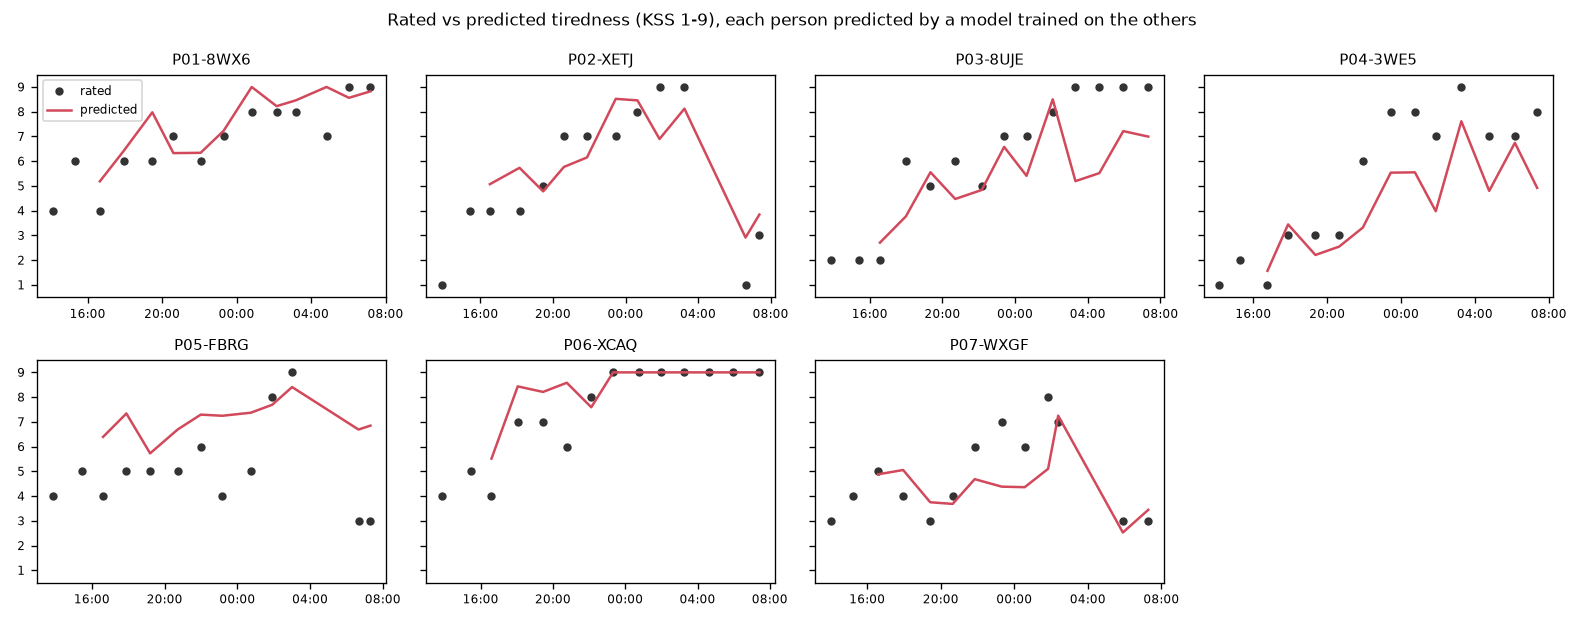
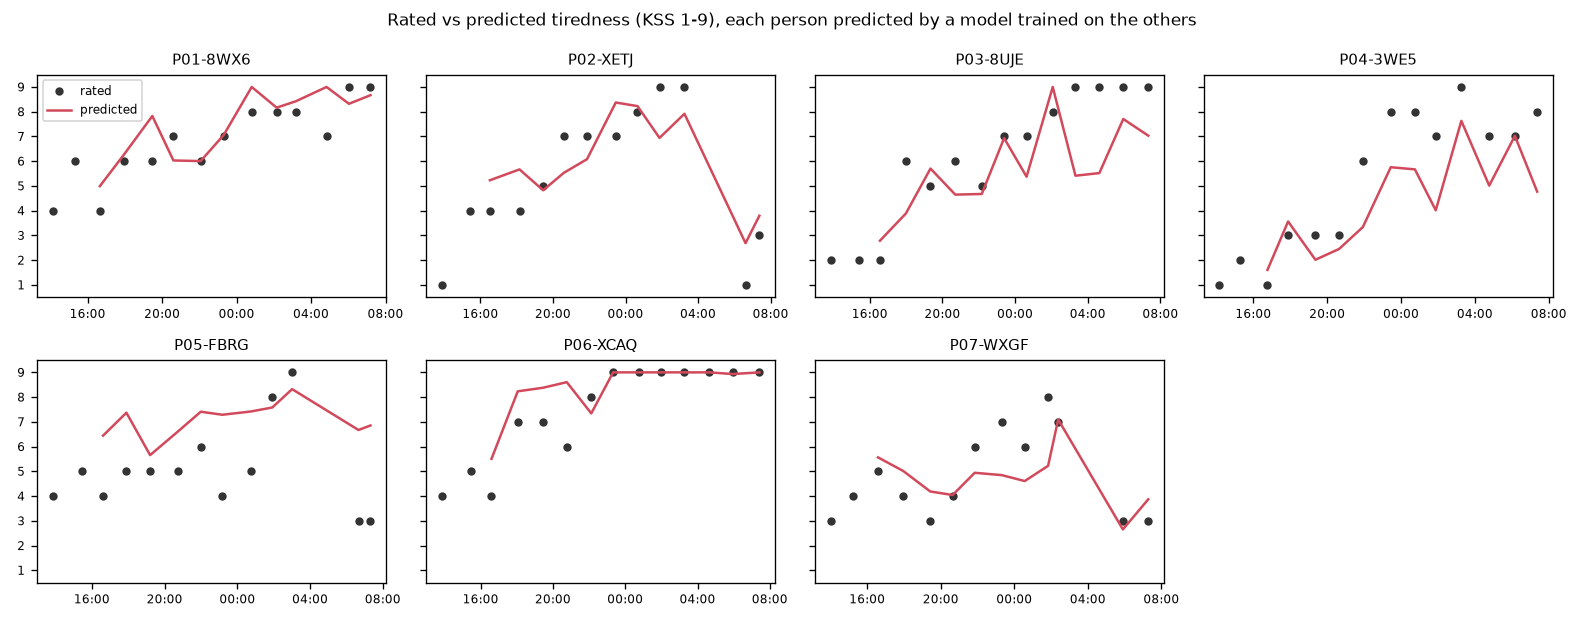
Drop free-text thinking pauses: predict from 6 typing features
The app has no free-text task, so the model keeps rule cost, backspaces, accuracy, rhythm unevenness, long pauses and key hold time. The README no longer lists a free-text answer in the check-in.

diff --git a/analysis/model.py b/analysis/model.py
@@ -31,11 +31,12 @@ from sklearn.pipeline import make_pipeline
 from sklearn.preprocessing import StandardScaler
 
 ALPHAS = np.logspace(-2, 3, 30)
-# The 7 typing features picked on 7 Nov, before any real results; no feature selection happens on
+# The 6 typing features picked on 7 Nov, before any real results (free-text thinking pauses were
+# dropped because the app has no free-text task); no feature selection happens on
 # the data. They are columns of features_processed.csv: changes from each person's first two
 # check-ins (_dev), and backspaces per 100 keys as they are.
 TYPING = ["vt_rule_cost_dev", "backspace_per100", "vt_accuracy_dev", "vt_gap_cv_dev",
-          "vt_pause1s_share_dev", "vt_hold_med_dev", "ft_pause2s_share_dev"]
+          "vt_pause1s_share_dev", "vt_hold_med_dev"]
 RULE = ["vt_rule_cost_dev"]
 RT = ["rt_lapse_rate_dev"]  # the reaction test, for one comparison row
 CLOCK = ["hours_rel"]  # hours awake relative to the baseline check-ins: a benchmark, never a prediction input

diff --git a/analysis/results/sim_null/report.md b/analysis/results/sim_null/report.md
@@ -1,6 +1,6 @@
 # Tiredness from typing: results
 
-Data from `../data/sim/null`, analysed Sat 07 Nov 19:27. 122 check-ins: 95 from 7 panel people and 27 from 20 one-off people. 81 panel check-ins are scored; each person's first 2 are their baseline.
+Data from `../data/sim/null`, analysed Sat 07 Nov 19:29. 122 check-ins: 95 from 7 panel people and 27 from 20 one-off people. 81 panel check-ins are scored; each person's first 2 are their baseline.
 
 - 4 vowel task timings dropped because the page lost focus.
 - 10 free text timings dropped because the page lost focus.
@@ -8,9 +8,9 @@ Data from `../data/sim/null`, analysed Sat 07 Nov 19:27. 122 check-ins: 95 from 
 
 ## Findings
 
-- Typing alone predicted tiredness with an average error of 2.24 KSS points, no better than hours awake alone (1.40). Always guessing the average gives 1.93.
-- Clock check: typing didn't clearly add anything to hours awake (error 1.40 → 1.57, shuffle test p = 0.727), so part of what it picks up may just be how late it is.
-- The original test, which shuffles ratings within each person, gives p = 0.473.
+- Typing alone predicted tiredness with an average error of 2.25 KSS points, no better than hours awake alone (1.40). Always guessing the average gives 1.93.
+- Clock check: typing didn't clearly add anything to hours awake (error 1.40 → 1.57, shuffle test p = 0.752), so part of what it picks up may just be how late it is.
+- The original test, which shuffles ratings within each person, gives p = 0.381.
 - After allowing for practice, the rule cost changed by -0.002 per hour awake (95% CI -0.008 to 0.004), which isn't clearly different from zero.
 - Gaps next to a capital took 1.32× as long as ordinary gaps (Wilcoxon p < 0.001, 118 check-ins), so the vowel rule does cost time.
 - Across 3 sleeps, KSS changed by -6.0 on average and the rule cost by -0.16.
@@ -25,17 +25,17 @@ Each person is predicted by a model trained on everyone else. Anchored models pr
 | Training mean | 1.93 | – | – |
 | Own baseline rating | 3.15 | – | – |
 | Hours awake (benchmark) | 1.40 | 0.60 | 0.88 |
-| Typing only (main) | 2.24 | -0.05 | -0.17 |
-| Typing + reaction test | 2.26 | -0.08 | -0.23 |
-| Typing without rule cost | 2.23 | -0.02 | -0.19 |
-| Typing, not anchored | 1.95 | -0.48 | -0.26 |
+| Typing only (main) | 2.25 | -0.03 | -0.16 |
+| Typing + reaction test | 2.26 | -0.06 | -0.13 |
+| Typing without rule cost | 2.21 | -0.01 | -0.14 |
+| Typing, not anchored | 1.95 | -0.46 | -0.20 |
 | Typing + hours awake (check only) | 1.57 | 0.52 | 0.82 |
 
-**Clock check.** Adding typing to hours awake changes the error from 1.40 to 1.57 KSS points. Shuffling the typing features within each person 500 times gives p = 0.727. A small p-value means typing knows something the clock doesn't.
+**Clock check.** Adding typing to hours awake changes the error from 1.40 to 1.57 KSS points. Shuffling the typing features within each person 500 times gives p = 0.752. A small p-value means typing knows something the clock doesn't.
 
-**Original test.** Shuffling ratings within each person, as in the plan, gives a typing-only error of 1.95 and p = 0.473. This test can't tell typing apart from anything else that drifts over the night.
+**Original test.** Shuffling ratings within each person, as in the plan, gives a typing-only error of 1.95 and p = 0.381. This test can't tell typing apart from anything else that drifts over the night.
 
-**Tired vs alert** (above each person's median KSS or not): AUC 0.51 with typing alone, 0.79 with hours awake alone.
+**Tired vs alert** (above each person's median KSS or not): AUC 0.53 with typing alone, 0.79 with hours awake alone.
 
 ![Permutation tests](figures/permutation_tests.png)
 
@@ -93,7 +93,7 @@ A model trained on all panel check-ins, using only features that need no baselin
 
 ## Notes
 
-- Typing features in the models: vt_rule_cost_dev, backspace_per100, vt_accuracy_dev, vt_gap_cv_dev, vt_pause1s_share_dev, vt_hold_med_dev, ft_pause2s_share_dev.
+- Typing features in the models: vt_rule_cost_dev, backspace_per100, vt_accuracy_dev, vt_gap_cv_dev, vt_pause1s_share_dev, vt_hold_med_dev.
 - Fixed features with no data here: none.
 - Reaction-test features: rt_lapse_rate_dev.
 - `_dev` features are each person's change from the average of their first two check-ins. Backspaces per 100 keys are used as they are. Hours awake reset after a sleep of an hour or more.

diff --git a/analysis/results/sim_effect/report.md b/analysis/results/sim_effect/report.md
@@ -1,6 +1,6 @@
 # Tiredness from typing: results
 
-Data from `../data/sim/effect`, analysed Sat 07 Nov 19:27. 122 check-ins: 95 from 7 panel people and 27 from 20 one-off people. 81 panel check-ins are scored; each person's first 2 are their baseline.
+Data from `../data/sim/effect`, analysed Sat 07 Nov 19:29. 122 check-ins: 95 from 7 panel people and 27 from 20 one-off people. 81 panel check-ins are scored; each person's first 2 are their baseline.
 
 - 3 vowel task timings dropped because the page lost focus.
 - 4 free text timings dropped because the page lost focus.
@@ -8,8 +8,8 @@ Data from `../data/sim/effect`, analysed Sat 07 Nov 19:27. 122 check-ins: 95 fro
 
 ## Findings
 
-- Typing alone predicted tiredness with an average error of 1.26 KSS points, better than hours awake alone (1.40). Always guessing the average gives 1.93.
-- Clock check: typing carries information beyond hours awake. Adding it to hours awake cut the error from 1.40 to 1.17 KSS points (shuffle test p = 0.002).
+- Typing alone predicted tiredness with an average error of 1.25 KSS points, better than hours awake alone (1.40). Always guessing the average gives 1.93.
+- Clock check: typing carries information beyond hours awake. Adding it to hours awake cut the error from 1.40 to 1.16 KSS points (shuffle test p = 0.002).
 - The original test, which shuffles ratings within each person, gives p = 0.002.
 - After allowing for practice, the rule cost changed by 0.005 per hour awake (95% CI -0.004 to 0.014), which isn't clearly different from zero.
 - Gaps next to a capital took 1.53× as long as ordinary gaps (Wilcoxon p < 0.001, 119 check-ins), so the vowel rule does cost time.
@@ -25,17 +25,17 @@ Each person is predicted by a model trained on everyone else. Anchored models pr
 | Training mean | 1.93 | – | – |
 | Own baseline rating | 3.15 | – | – |
 | Hours awake (benchmark) | 1.40 | 0.60 | 0.88 |
-| Typing only (main) | 1.26 | 0.67 | 0.75 |
-| Typing + reaction test | 0.95 | 0.80 | 0.83 |
-| Typing without rule cost | 1.26 | 0.67 | 0.71 |
-| Typing, not anchored | 1.31 | 0.73 | 0.82 |
-| Typing + hours awake (check only) | 1.17 | 0.70 | 0.82 |
+| Typing only (main) | 1.25 | 0.68 | 0.73 |
+| Typing + reaction test | 0.94 | 0.81 | 0.83 |
+| Typing without rule cost | 1.25 | 0.67 | 0.76 |
+| Typing, not anchored | 1.34 | 0.70 | 0.77 |
+| Typing + hours awake (check only) | 1.16 | 0.71 | 0.82 |
 
-**Clock check.** Adding typing to hours awake changes the error from 1.40 to 1.17 KSS points. Shuffling the typing features within each person 500 times gives p = 0.002. A small p-value means typing knows something the clock doesn't.
+**Clock check.** Adding typing to hours awake changes the error from 1.40 to 1.16 KSS points. Shuffling the typing features within each person 500 times gives p = 0.002. A small p-value means typing knows something the clock doesn't.
 
-**Original test.** Shuffling ratings within each person, as in the plan, gives a typing-only error of 1.34 and p = 0.002. This test can't tell typing apart from anything else that drifts over the night.
+**Original test.** Shuffling ratings within each person, as in the plan, gives a typing-only error of 1.36 and p = 0.002. This test can't tell typing apart from anything else that drifts over the night.
 
-**Tired vs alert** (above each person's median KSS or not): AUC 0.70 with typing alone, 0.79 with hours awake alone.
+**Tired vs alert** (above each person's median KSS or not): AUC 0.72 with typing alone, 0.79 with hours awake alone.
 
 ![Permutation tests](figures/permutation_tests.png)
 
@@ -93,7 +93,7 @@ A model trained on all panel check-ins, using only features that need no baselin
 
 ## Notes
 
-- Typing features in the models: vt_rule_cost_dev, backspace_per100, vt_accuracy_dev, vt_gap_cv_dev, vt_pause1s_share_dev, vt_hold_med_dev, ft_pause2s_share_dev.
+- Typing features in the models: vt_rule_cost_dev, backspace_per100, vt_accuracy_dev, vt_gap_cv_dev, vt_pause1s_share_dev, vt_hold_med_dev.
 - Fixed features with no data here: none.
 - Reaction-test features: rt_lapse_rate_dev.
 - `_dev` features are each person's change from the average of their first two check-ins. Backspaces per 100 keys are used as they are. Hours awake reset after a sleep of an hour or more.

diff --git a/README.md b/README.md
@@ -8,8 +8,7 @@ People on our overnight panel do a check-in every hour or so while they're awake
 
 1. A self-report, including sleepiness on the Karolinska Sleepiness Scale (KSS: 1 is extremely alert, 9 is fighting sleep) and when they last woke up.
 2. A sentence to type with every vowel (a, e, i, o, u, not y) capitalised, using Shift.
-3. A short free-text answer.
-4. A 3-minute reaction-time test.
+3. A 3-minute reaction-time test.
 
 The vowel rule adds mental load. Within the same sentence, we compare the gaps next to a capital with the gaps between ordinary letters. That cancels out each person's own typing speed, and we expect tired people to pay more for the rule.
 
@@ -49,8 +48,8 @@ The simulator writes check-ins in the app's format for two worlds: one where fat
 
 ## What the analysis does
 
-- **Features:** typing speed, rhythm, pauses, key hold times, errors, the vowel rule's cost and Shift timing, free-text pauses, and the reaction test's median, speed and lapses. Timings leave out Shift presses and corrections. `features_raw.csv` has each feature as measured. `features_processed.csv` has each one as a change from the person's first two check-ins, with backspaces per 100 keys left as they are, and the models use its columns.
-- **Models:** ridge regression predicts each person's change in KSS from their own first two check-ins, using 7 typing features: the vowel rule's cost, backspaces, accuracy, rhythm unevenness, long pauses, key hold time and free-text thinking pauses. Predictions use typing only, because the demo can't ask how long someone has been awake. Every person is predicted by a model trained on everyone else, and a logistic regression separates tired check-ins from alert ones.
+- **Features:** typing speed, rhythm, pauses, key hold times, errors, the vowel rule's cost and Shift timing, and the reaction test's median, speed and lapses. Timings leave out Shift presses and corrections. `features_raw.csv` has each feature as measured. `features_processed.csv` has each one as a change from the person's first two check-ins, with backspaces per 100 keys left as they are, and the models use its columns.
+- **Models:** ridge regression predicts each person's change in KSS from their own first two check-ins, using 6 typing features: the vowel rule's cost, backspaces, accuracy, rhythm unevenness, long pauses and key hold time. Predictions use typing only, because the demo can't ask how long someone has been awake. Every person is predicted by a model trained on everyone else, and a logistic regression separates tired check-ins from alert ones.
 - **Hours awake as a benchmark:** we compare typing alone with hours awake alone. Over one night, practice, tiredness and the clock all drift together, so a clock check also tests whether typing adds anything to hours awake, by shuffling the typing features within each person.
 
 | File | What it does |

diff --git a/AI_USAGE.md b/AI_USAGE.md
@@ -17,7 +17,7 @@ Keep this current while building, and copy it into the submission. The event's C
 | Simulated check-ins in the app's file format, with and without a fatigue effect (`analysis/simulate.py`) | Claude Code | all of it | not reviewed yet |
 | Models, evaluation, report, figures and latest predictions (`analysis/model.py`, `report.py`, `run_all.py`, `predict_latest.py`), tests, and the simulated results | Claude Code | all of it | not reviewed yet |
 | Raw and processed feature files measured from each person's first two check-ins (`analysis/export_features.py`, with changes to `features.py`, `model.py` and `report.py`) | Claude Code | all of it | not reviewed yet |
-| Typing-only predictions from 7 chosen features, with hours awake as a benchmark (changes to `analysis/model.py`, `report.py`, `run_all.py`) | Claude Code | all of it | not reviewed yet |
+| Typing-only predictions from 6 chosen features, with hours awake as a benchmark (changes to `analysis/model.py`, `report.py`, `run_all.py`) | Claude Code | all of it | not reviewed yet |
 
 ## What we wrote or decided ourselves
 
